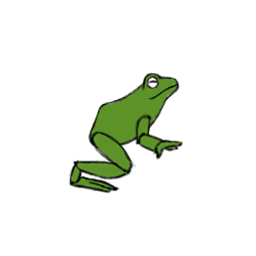
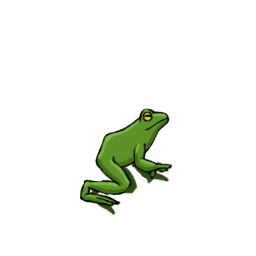
improved sprites

Changed region(s): [[0.25, 0.2812, 0.7188, 0.8438]]

diff --git a/src/js/game/controller/Controller.js b/src/js/game/controller/Controller.js
@@ -292,8 +292,7 @@ export const Controller = (renderer, physics, input) => {
                     'jump_00': 'frog.jump_00', 'jump_01': 'frog.jump_01', 'jump_02': 'frog.jump_02',
                     'prepare.jump.00': 'frog.prepare.jump.00', 'prepare.jump.01': 'frog.prepare.jump.01',
                     walled: 'frog.walled', 'walled.prepare.jump': 'frog.walled.prepare.jump',
-                    'midair.head.hit': 'frog.midair.head.hit', 'midair.prepare.jump': 'frog.midair.prepare.jump',
-                    'slide_00': 'frog.slide_00', 'slide_01': 'frog.slide_01'
+                    'midair.head.hit': 'frog.midair.head.hit', 'midair.prepare.jump': 'frog.midair.prepare.jump'
                 },
                 respawnPoint.x, respawnPoint.y,
                 256, 256, PMASK.FROG, {x: 86, y: 106, w: 80, h: 150})

diff --git a/src/js/index.js b/src/js/index.js
@@ -98,8 +98,6 @@ window.onload = () => {
         .add('frog.prepare.jump.01', 'assets/frog.draft/prepare.jump.01.png')
         .add('frog.midair.prepare.jump', 'assets/frog.draft/midair.prepare.jump.png')
         .add('frog.midair.head.hit', 'assets/frog.draft/midair.head.hit.png')
-        .add('frog.slide_00', 'assets/frog.draft/slide_00.png')
-        .add('frog.slide_01', 'assets/frog.draft/slide_01.png')
         .load(() => {
             for (const category in resources.getJSON('patterns')) {
                 resources.getJSON('patterns')[category].forEach(t=>resources.add(t.alias, t.path))
